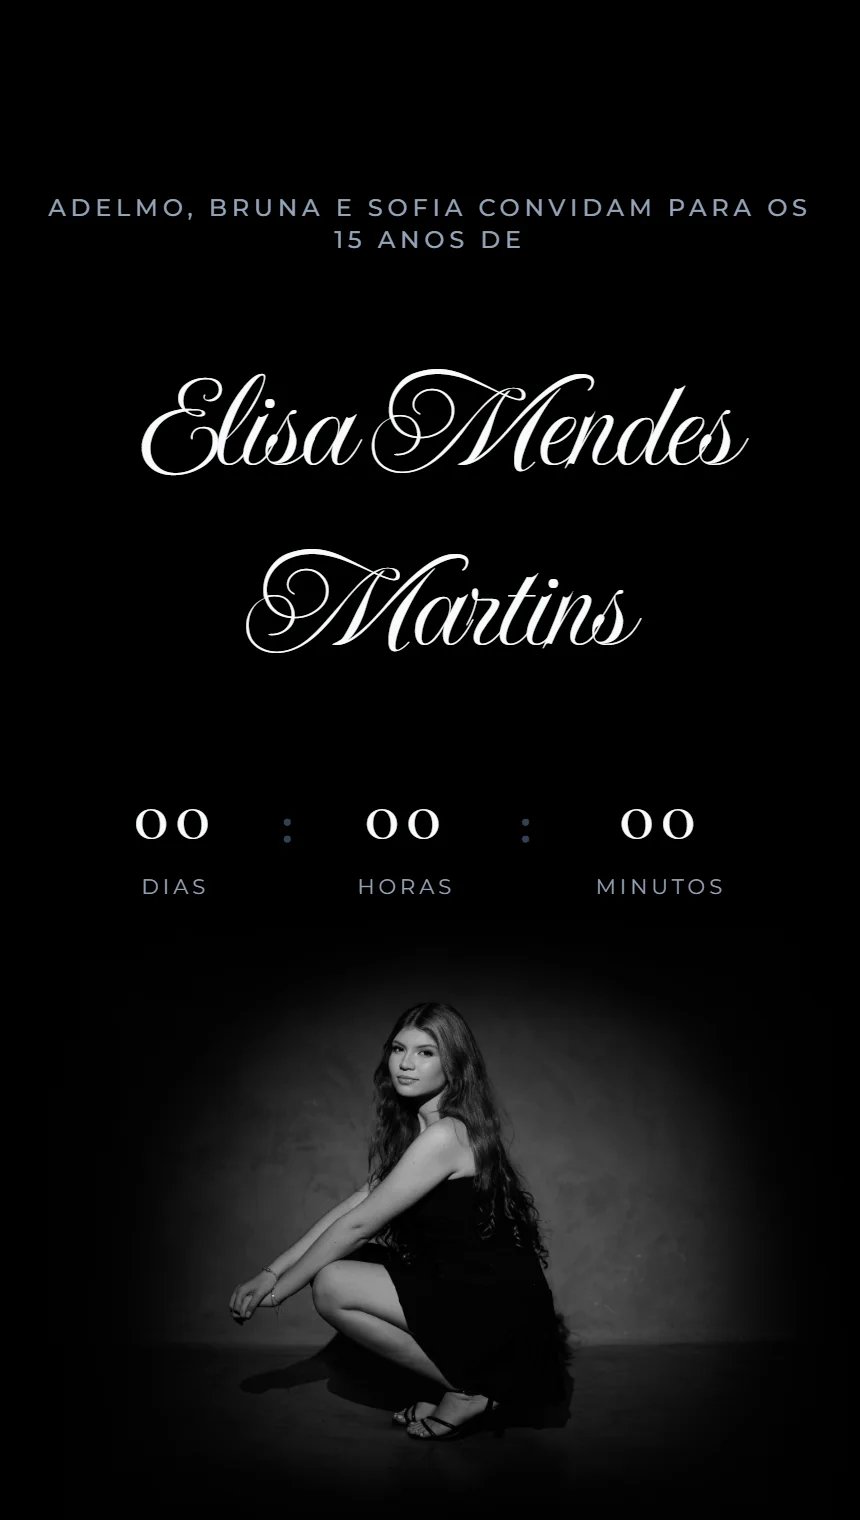
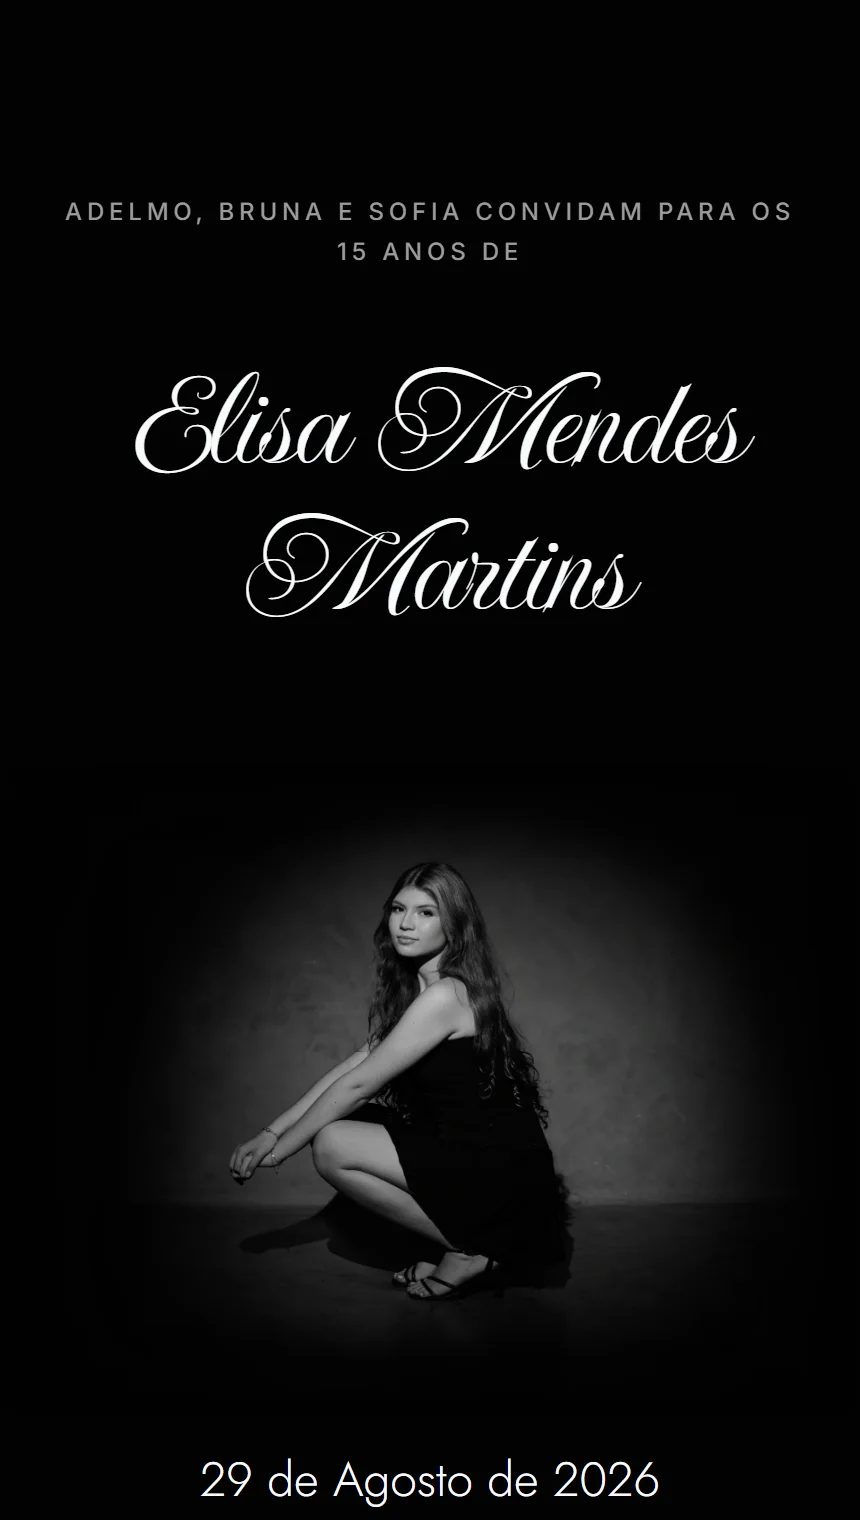
Refresh Elisa invitation preview from Useenvio

diff --git a/experimental.html b/experimental.html
@@ -31,7 +31,7 @@
         <span>Marina e Rafael <svg aria-hidden="true" focusable="false" viewBox="0 0 16 16" fill="none" stroke="currentColor" stroke-width="1.4" stroke-linecap="round" stroke-linejoin="round" width="1em" height="1em" style="vertical-align:-.125em;margin-inline:.15em;flex:none"><use href="assets/arrows.svg#up-right"/></svg></span>
       </a>
       <a class="invitation-preview" href="https://useenvio.alvz.com.br/c/evt_15anoselisa" target="_blank" rel="noopener">
-        <img src="assets/useenvio-elisa.webp" alt="" width="860" height="1520" loading="lazy">
+        <img src="assets/useenvio-elisa.webp?v=useenvio" alt="" width="860" height="1520" loading="lazy">
         <span class="invitation-kind">15 anos</span>
         <span>Elisa <svg aria-hidden="true" focusable="false" viewBox="0 0 16 16" fill="none" stroke="currentColor" stroke-width="1.4" stroke-linecap="round" stroke-linejoin="round" width="1em" height="1em" style="vertical-align:-.125em;margin-inline:.15em;flex:none"><use href="assets/arrows.svg#up-right"/></svg></span>
       </a>

diff --git a/index.html b/index.html
@@ -31,7 +31,7 @@
         <span>Marina e Rafael <svg aria-hidden="true" focusable="false" viewBox="0 0 16 16" fill="none" stroke="currentColor" stroke-width="1.4" stroke-linecap="round" stroke-linejoin="round" width="1em" height="1em" style="vertical-align:-.125em;margin-inline:.15em;flex:none"><use href="assets/arrows.svg#up-right"/></svg></span>
       </a>
       <a class="invitation-preview" href="https://useenvio.alvz.com.br/c/evt_15anoselisa" target="_blank" rel="noopener">
-        <img src="assets/useenvio-elisa.webp" alt="" width="860" height="1520" loading="lazy">
+        <img src="assets/useenvio-elisa.webp?v=useenvio" alt="" width="860" height="1520" loading="lazy">
         <span class="invitation-kind">15 anos</span>
         <span>Elisa <svg aria-hidden="true" focusable="false" viewBox="0 0 16 16" fill="none" stroke="currentColor" stroke-width="1.4" stroke-linecap="round" stroke-linejoin="round" width="1em" height="1em" style="vertical-align:-.125em;margin-inline:.15em;flex:none"><use href="assets/arrows.svg#up-right"/></svg></span>
       </a>
